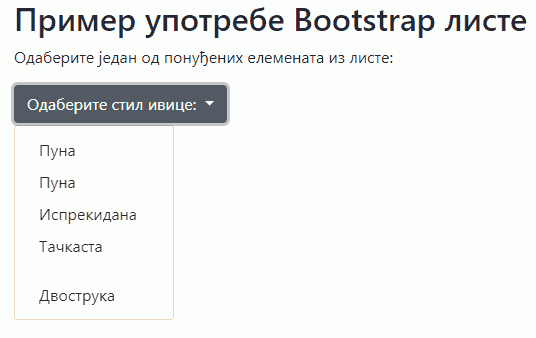
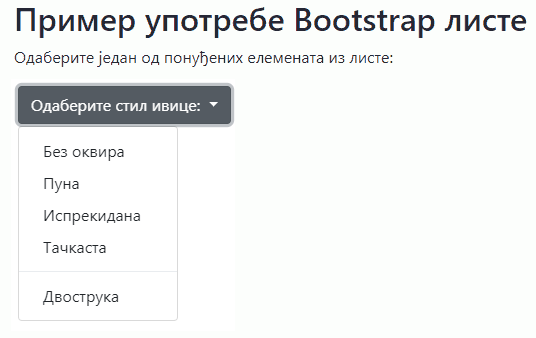
Sitne popravke

diff --git a/_sources/4_JS_05_veb_interfejs/05c_js_liste_za_odabir_citanje.rst b/_sources/4_JS_05_veb_interfejs/05c_js_liste_za_odabir_citanje.rst
@@ -88,54 +88,18 @@
 
     .. code-block:: html
 
-POCETAK
-    function postavi(vrstaIvice) {
-        let omot = document.querySelector(`div#омот`);
-        omot.style.border = vrstaIvice;
-    }
-
-За разлику од претходног случаја у коме је функција реаговала када је одабрана нека ставка, па смо морали да нађемо која је тачно ставка одабрана, у овом случају нам је одабрана ставка већ прослеђена као параметар. Све што треба да урадимо је да омоту променимо стил ивица.
-
-Следи комплетан кôд примера:
-
-.. activecode:: izbor_okvira_iz_bootstrap_liste
-    :language: html
-    :nocodelens:
-
-    <!DOCTYPE html>
-    <head>
-    <title>Избор из Bootstrap листе</title>
-    <link rel="stylesheet" href="https://maxcdn.bootstrapcdn.com/bootstrap/4.3.1/css/bootstrap.min.css">
-    <script src="https://ajax.googleapis.com/ajax/libs/jquery/3.4.0/jquery.min.js"></script>
-    <script src="https://cdnjs.cloudflare.com/ajax/libs/popper.js/1.14.7/umd/popper.min.js"></script>
-    <script src="https://maxcdn.bootstrapcdn.com/bootstrap/4.3.1/js/bootstrap.min.js"></script>
-        <script>
-            function postavi(vrstaIvice) {
-                let omot = document.querySelector(`div#омот`);
-                omot.style.border = vrstaIvice;
-            }
-        </script>
-    </head>
-    <body>
-    <div class="container-fluid">
-    <h2>Пример употребе Bootstrap листе</h2>
-      <div id="омот">
-        <p id="opis">Одаберите један од понуђених елемената из листе:</p>
-
-KRAJ
-
         <div class="dropdown">
-        <button class="btn btn-secondary dropdown-toggle" type="button" id="border" data-toggle="dropdown">
+          <button class="btn btn-secondary dropdown-toggle" type="button" id="border" data-toggle="dropdown">
             Одаберите стил ивице:
-        </button>
-        <div class="dropdown-menu">
+          </button>
+          <div class="dropdown-menu">
             <button class="dropdown-item" onclick="postavi('solid')">Пуна</button>
             <button class="dropdown-item" onclick="postavi('solid')">Пуна</button>
             <button class="dropdown-item" onclick="postavi('dashed')">Испрекидана</button>
             <button class="dropdown-item" onclick="postavi('dotted')">Тачкаста</button>
             <div class="dropdown-divider"></div>
             <button class="dropdown-item" onclick="postavi('double')">Двострука</button>
-        </div>
+          </div>
         </div>
 
     Листа се ставља у ``<div>`` елемент који има класу ``dropdown``. Унутар овог елемента се налази једно дугме са класом ``dropdown-toggle`` на које се може кликнути како би се приказале остале опције. Унутар овог дугмета је и текст који ће бити приказан док опције нису приказане. Листа нема опције као у случају класичне *HTML* листе. Уместо тога, ова листа садржи ``<div>`` блок са класом ``dropdown-menu`` у коме се налази скуп дугмади која ће бити приказана као ставке листе. Овакво дугме мора да има класу ``dropdown-item`` и у његовом атрибуту ``onclick`` се може позвати нека функција која ће се извршити када се одабере нека ставка (као и у случају стандардне дугмади). У овом случају, при избору било које од ставки позива се *JavaScript* функција ``postavi``, којој се као параметар прослеђује одговарајућа вредност врсте ивице.
@@ -184,7 +148,7 @@ KRAJ
                 Одаберите стил ивице:
             </button>
             <div class="dropdown-menu">
-                <button class="dropdown-item" onclick="postavi('solid')">Пуна</button>
+                <button class="dropdown-item" onclick="postavi('none')">Без оквира</button>
                 <button class="dropdown-item" onclick="postavi('solid')">Пуна</button>
                 <button class="dropdown-item" onclick="postavi('dashed')">Испрекидана</button>
                 <button class="dropdown-item" onclick="postavi('dotted')">Тачкаста</button>
@@ -196,4 +160,3 @@ KRAJ
         </div>
         </body>
         </html>
-        

diff --git a/_sources/4_JS_05_veb_interfejs/05b_js_polja_za_unos_citanje.rst b/_sources/4_JS_05_veb_interfejs/05b_js_polja_za_unos_citanje.rst
@@ -134,7 +134,7 @@
       </body>
     </html>
 
-Да би употреба ове стране била удобна, недостаје бар још памћење раније унетих ставки и поништавање (прецртавање или брисање или оба) урађених послова. На овај преимер ћемо се вратити и дорадити га касније.
+Да би употреба ове стране била удобна, недостаје бар још памћење раније унетих ставки и поништавање (прецртавање или брисање или оба) урађених послова. На овај пример ћемо се вратити и дорадити га касније.
 
 .. comment
 

diff --git a/_sources/4_JS_02_promenljive_i_izrazi/02e_js_osnovni_tipovi_pitanja.rst b/_sources/4_JS_02_promenljive_i_izrazi/02e_js_osnovni_tipovi_pitanja.rst
@@ -1,4 +1,4 @@
-6Основни типови - питања
+Основни типови - питања
 =======================
 
 .. fillintheblank:: osnovni_tipovi_q1
